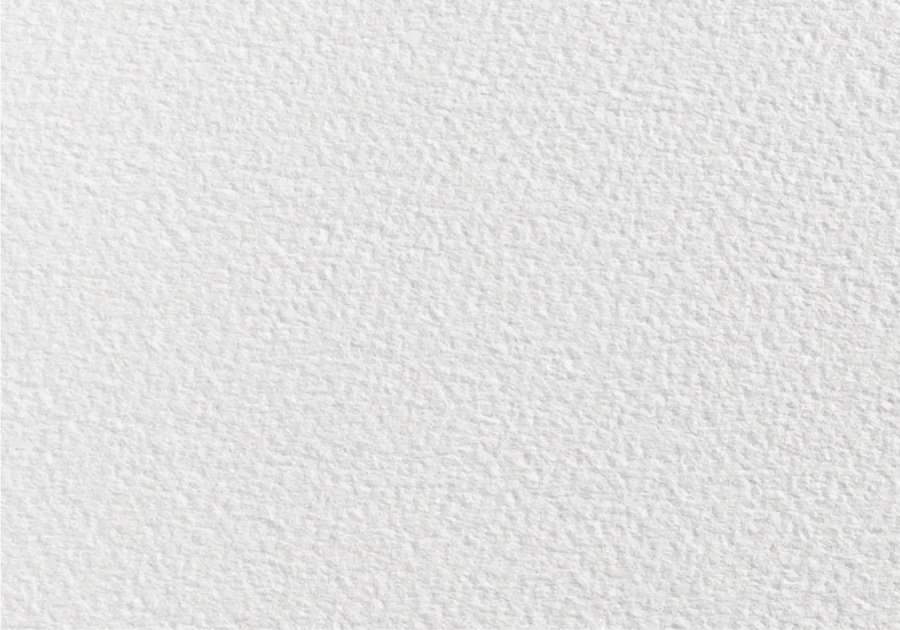
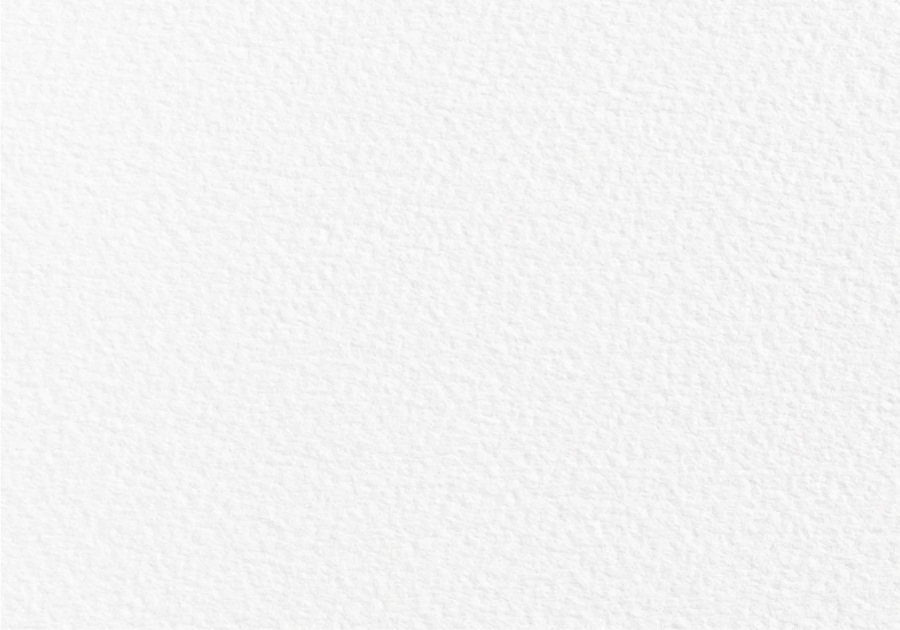
d
d

diff --git a/untitled folder/p5 2/empty-example/mianpage.html b/untitled folder/p5 2/empty-example/mianpage.html
@@ -4,6 +4,8 @@
 <head>
 <link rel="stylesheet" href="https://use.typekit.net/vdf3pnb.css">
 <link rel="stylesheet" href="https://use.typekit.net/fqe0caq.css">
+
+<meta name="viewport" content="width=device-width, initial-scale=1.0">
   <title>
    Context Drawing
   </title>
@@ -13,9 +15,9 @@
 body{
   overflow-y: hidden;
   overflow-x: hidden;
-  background-image: url(wu.jpg);
-
-  background-size:contain;
+  background-image: url(paper6.jpg);
+  background-size: cover;
+  
 }
 .container{
   position: absolute;
@@ -66,36 +68,54 @@ iframe{
   overflow-x: hidden;
   overflow-y: hidden;
 }
-.lable{
-  position: absolute;
-  font-size: 0.9em;
-  background-color: #212020;
+@media only screen and (max-width: 1400px) and (max-height: 750px){.lable{
+  position: relative;
+  font-size: 1vw;
+  background-image: url(paper.jpg);
   background-size: cover;
   font-family: "futura-pt";
-	font-weight: 500;
+	font-weight: 700;
 	font-style: normal;
-  color:white;
-  width: 80%;
-  height: 17%;
-  margin-top: 185%;
-  margin-left: 0%;
+	overflow: hidden;
+  color:black;
+  transform: scale(0.9);
+  margin-top: 150%;
+ left: -10%;
   text-align: center;
-   box-shadow: 6px 6px 6px rgba(0, 0, 0, 0.5);
+   box-shadow: 2px 2px 2px rgba(0, 0, 0, 0.5);
    z-index: 3;
-
+   overflow-y: hidden;
   display: flex;
   justify-content: center;
   align-items: center;
+
+}}
+
+.lablein{
+	position: relative;
+	width: 100%;
+	height: 100%;
+	margin-top: 5%;
+	margin-left: 10%;
+	margin-right: 10%;
+	overflow: hidden;
 }
 
 
+
+
+
+
+
+
+
 .instruction{
-  right:-16%;
-  top: 6%;
+  right:-10%;
+  top: 5%;
   background-color:#ffea03;
   width: 16%;
-  height: 60%;
-  position: fixed;
+  height: 50%;
+  position: absolute;
    -webkit-transition: all 0.7s ease-in;
        -moz-transition: all 0.7s ease-in;
         -ms-transition: all 0.7s ease-in;
@@ -107,7 +127,12 @@ iframe{
 }
 .instruction:hover {
   -webkit-transform: translate(-120%, 0%);
+}
 
+.insin{
+	position: absolute;
+	width: 100%;
+	height: 20%;
 }
 
 #circle {
@@ -125,7 +150,7 @@ iframe{
 	font-family: "futura-pt";
 	font-weight: 300;
 	font-style: normal;
-	font-size: 0.8em;
+	font-size: 0.8vw;
 	float: left;
 	margin-left: 10%;
 	margin-top: 5%;
@@ -135,7 +160,7 @@ iframe{
 	float: left;
 	margin-left: 26%;
 margin-top: 3%;
-	font-size: 1.5em;
+	font-size: 1.5vw;
   background-size: cover;
  font-family: "futura-pt";
 	font-weight: 700;
@@ -146,8 +171,11 @@ margin-top: 3%;
   align-items: center;
 }
 
-
-
+.bottom{
+	position: absolute;
+	transform: scale(0.07);
+	left: -10%;
+}
 
   </style>
 
@@ -205,9 +233,13 @@ function mouseClicked() {
         <div class="right">
 
         <div class="instruction">
+        <div class="insin">
+
         <a class="title">Instruction</a>
 
         <a class="text">Context drawing is a tool for people document the different enviroemnt</a>
+
+        <div class="bottom"><img src="instagram.png"></div>
 
 
 
@@ -220,19 +252,39 @@ function mouseClicked() {
 
 
 
-
+		</div>
         </div>
 
            <div class="lable">
-                           <form action="/action_page.php">
-                           <label for="fname">Context</label>
-                          <input type="text" id="fname" name="firstname" width="100%" height="100%" placeholder="&nbsp;&nbsp;&nbsp;&nbsp;&nbsp;&nbsp;Where are you?">
+                          <div class="lablein">
+
+
+                          <form action="MAILTO:someone@example.com" method="post" enctype="text/plain">
+							Context
+							  <input type="text" id="test" type="text" name="Context:"   placeholder="&nbsp;&nbsp;&nbsp;&nbsp;&nbsp;&nbsp;What happen?">
+							  <br>
+							  <br>
+							Location
+							 <input type="text" id="test" type="text" name="Location:"  placeholder="&nbsp;&nbsp;&nbsp;&nbsp;&nbsp;&nbsp;Where are you?">
+							 <br>
+							 <br>
+							Date
+                          <input type="text" id="test" type="text" name="Date:"   placeholder="&nbsp;&nbsp;&nbsp;&nbsp;&nbsp;&nbsp;xx/xx/xxxx">
                           <br>
                           <br>
-                           <form action="/action_page.php">
-            			&nbsp; &nbsp;<label for="fname">Time&nbsp;</label> 
-                          <input type="text" id="fname" name="firstname"  width="100%" height="100%" placeholder="&nbsp;&nbsp;&nbsp;&nbsp;&nbsp;What is time now?">
-                          	
+                          Time
+                          <input type="text" id="test" type="text" name="Time:"  width="100%" height="100%"   placeholder="&nbsp;&nbsp;&nbsp;&nbsp;&nbsp;99:99~99:99">
+                          <br>
+                          <br>
+                          <input type="file" name="Your Drawing" accept="image/*">
+							<input type="submit" value="E-mail">
+							<input type="reset" value="reset">
+							</form>
+                     
+                          <br>
+                         
+
+                          	</div>
                            </div>
 
           </div>
@@ -246,8 +298,6 @@ function mouseClicked() {
    
          
           </div>
-
-
 </body>
 </html>
 
